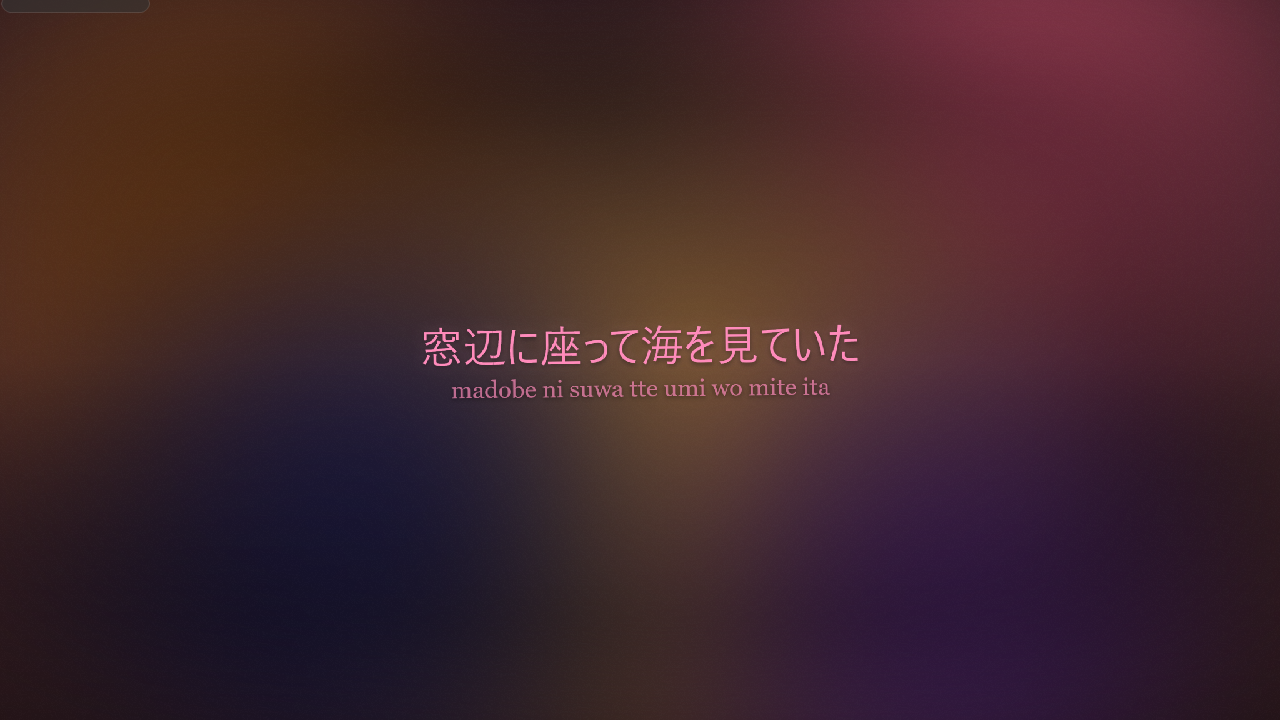
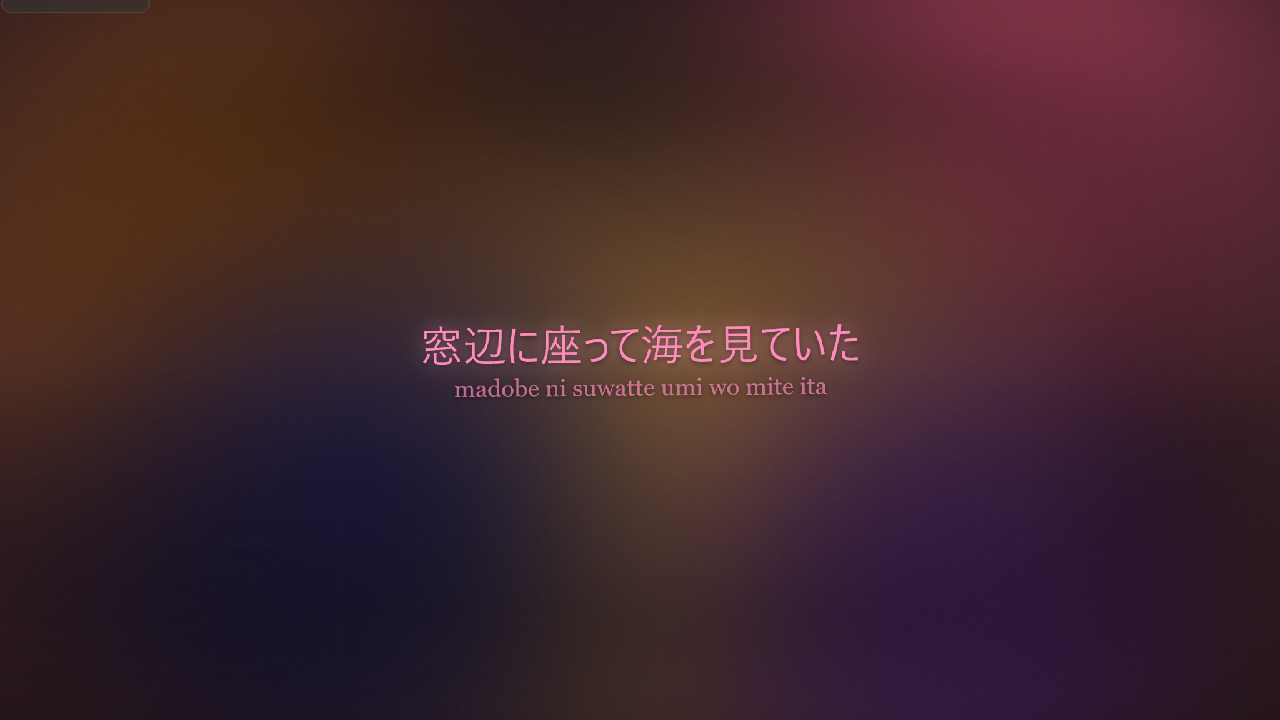
Time the demo's Japanese verbs as whole words; note the flaky lyric-core test
The demo's 歩いた, 座って and 見ていた are one timed word each, so their readings read
as words. The Japanese preview is re-taken and a loop back to the first song (palette
from the cache) is added. M3.md and VALIDATION.md record the flaky
LrclibLosesItsLeadWhenTwoOtherSourcesAgreeAgainstItsTiming test: LRCLIB keeps its lead
when the agreeing sources answer after it (confirmed by delaying them); nothing under
Lunalyr.Core changed on this branch. The backgroundMode doc comment lists colourOnly.

Changed region(s): [[0.3125, 0.4583, 0.6562, 0.55]]

diff --git a/windows/src/Lunalyr.Shell/Demo/DemoSongs.cs b/windows/src/Lunalyr.Shell/Demo/DemoSongs.cs
@@ -60,11 +60,11 @@ public static class DemoSongs
     private static DemoSong Japanese()
     {
         static Sung W(string text, double start, double end) => new(text, start, end, Space: false);
-        Sung[] first = [W("夕焼け", 1.5, 2.1), W("の", 2.1, 2.3), W("帰り道", 2.4, 3.0), W("を", 3.0, 3.2), W("歩い", 3.3, 3.9), W("た", 3.9, 4.5)];
+        Sung[] first = [W("夕焼け", 1.5, 2.1), W("の", 2.1, 2.3), W("帰り道", 2.4, 3.0), W("を", 3.0, 3.2), W("歩いた", 3.3, 4.5)];
         Sung[] second =
         [
-            W("窓辺", 4.9, 5.4), W("に", 5.4, 5.6), W("座っ", 5.7, 6.2), W("て", 6.2, 6.4), W("海", 6.5, 6.9), W("を", 6.9, 7.1),
-            W("見て", 7.2, 7.7), W("いた", 7.7, 8.5),
+            W("窓辺", 4.9, 5.4), W("に", 5.4, 5.6), W("座って", 5.7, 6.4), W("海", 6.5, 6.9), W("を", 6.9, 7.1),
+            W("見ていた", 7.2, 8.5),
         ];
         Sung[] third = [W("星空", 9.2, 9.9), W("の", 9.9, 10.1), W("下", 10.2, 10.7), W("で", 10.7, 10.9), W("君", 11.0, 11.5), W("を", 11.5, 11.7), W("待つ", 11.8, 12.9)];
         Sung[] fourth = [W("明日", 13.5, 14.1), W("も", 14.1, 14.3), W("また", 14.4, 14.9), W("会える", 15.0, 15.7), W("よう", 15.7, 16.4), W("に", 16.4, 17.0)];

diff --git a/windows/src/Lunalyr.Shell/Settings/AppSettings.cs b/windows/src/Lunalyr.Shell/Settings/AppSettings.cs
@@ -60,9 +60,10 @@ public sealed record AppSettings
     // ---- Wallpaper ----
 
     /// <summary>
-    /// The background: "gradient" (animated album colours; Windows' default and, so far, only one), then the Mac's
-    /// <c>backgroundMode</c> values as they are ported ("pattern", "shader", "visualizer", "colourOnly", "desktop",
-    /// "custom", "musicVideo").
+    /// The background: "gradient" (the animated album colour field; Windows' default) or the Mac's "colourOnly" (the
+    /// straight album gradient), then the Mac's other <c>backgroundMode</c> values as they are ported ("pattern",
+    /// "shader", "visualizer", "desktop", "custom", "musicVideo"). EngineWallpaperRenderer.BackgroundLayerFor maps a
+    /// value to its layer.
     /// </summary>
     public string BackgroundMode { get; init; } = "gradient";
 

diff --git a/windows/docs/milestones/M3.md b/windows/docs/milestones/M3.md
@@ -19,7 +19,8 @@
   and a track without a cover gets the Mac's default colours.
 - **A softer text backing.** Over bright, contrasty covers the shade behind the lyrics used to show as a dark
   rectangle with lighter edges. It is now feathered widely: full strength where lyrics are set, with no visible edge
-  or corner ([before/after: `docs/previews/gradient/gradient-contrast-*.png`](../previews/gradient/)).
+  or corner (re-rendered: [`docs/previews/gradient/gradient-contrast-*.png`](../previews/gradient/); the earlier
+  render with the rectangle is in git history, before commit 6ef9467).
 - **Readings** of Japanese lyrics come from the bundled dictionary and show below the lines.
 - **`--demo`**: a silent built-in player with two invented songs, an English one and a Japanese one with readings.
   They have word-timed lyrics and covers painted in code, and loop in real time. Nothing plays, nothing is looked up
@@ -40,6 +41,7 @@
 | Spoken, wrapping line | [spoken-gradient-english-wrapping.png](../previews/m3/spoken-gradient-english-wrapping.png) |
 | Colour background, Editorial | [editorial-colour-english-backing-vocals.png](../previews/m3/editorial-colour-english-backing-vocals.png), [editorial-colour-japanese-readings.png](../previews/m3/editorial-colour-japanese-readings.png) |
 | Colour background, Spoken, Japanese | [spoken-colour-japanese-reading.png](../previews/m3/spoken-colour-japanese-reading.png) |
+| Back to the first song after a loop (its colours from the cache) | [editorial-gradient-loop-back-to-the-first-song.png](../previews/m3/editorial-gradient-loop-back-to-the-first-song.png) |
 
 The peeks were taken with `pauseWhenCovered` switched off in a temporary settings file, because open windows
 cover this desktop and the engine pauses (as it should) while they do. The small grey bar at the top left belongs
@@ -69,7 +71,8 @@ cap is 60 fps, so on this 60 Hz desktop "60 fps" and "default" are the same run;
 
 ## Tests
 
-1078 tests (1077 pass, 1 skipped opt-in), run three times. New in this milestone's finish:
+1078 tests (1077 pass, 1 skipped opt-in). See "A flaky lyric-core test" below for the tally of full runs. New in
+this milestone's finish:
 - controller colours: `AppControllerArtworkTests` (8: real decode of a painted cover, no cover, unreadable cover,
   a late cover, cache and cancellation, late answers dropped, a relook keeping colours, the player going away);
 - the demo: `DemoTests` (13);
@@ -77,6 +80,20 @@ cap is 60 fps, so on this 60 Hz desktop "60 fps" and "default" are the same run;
 - the feathered backing: `FeatheredBackingTests`. The drawn-backing test (adapted from the Mac's
   `testTheDrawnBackingFollowsTheShapeAndAManualAmountKeepsItsEllipse`) now checks the new shape; the Mac's shape
   functions and their ported tests are unchanged.
+
+### A flaky lyric-core test (not changed by this milestone; a product question)
+
+`LyricServiceEndToEndTests.LrclibLosesItsLeadWhenTwoOtherSourcesAgreeAgainstItsTiming` sometimes fails. LRCLIB
+wins instead of Lyrics+. This branch changes nothing under `src/Lunalyr.Core` or `tests/Lunalyr.Core.Tests`.
+- **Cause, confirmed.** In a throwaway copy of the test, Lyrics+ and NetEase answered 300 ms after LRCLIB, and the
+  test failed every time.
+- **Mechanism, from reading the code.** LRCLIB's word timing is shown as soon as no pending source could outrank it
+  on its own (`LyricRanking.IsSettled` / `CouldBeat`). Agreement against its timing only exists once the others
+  have answered, and the later pairwise upgrade check (`LyricPublication.IsUpgrade`) doesn't bring it back in.
+- **So arrival order decides** whether "LRCLIB loses its lead when two other sources agree" holds. That is one of
+  the rules in AGENT-RULES, so it's a question for the lyric core, not test noise.
+- **How often.** Alone, the Core assembly failed 1 time in 15 and the end-to-end class 0 times in 15. In full
+  solution runs it failed 2 times in 7.
 
 ## What's left
 
@@ -89,6 +106,10 @@ cap is 60 fps, so on this 60 Hz desktop "60 fps" and "default" are the same run;
   sweep, Music reactive, Custom gradient, Static white) and the highlight tiles are not wired yet.
 - **Backing vocals tagged `x-bg` in Apple-style TTML** don't seem to reach the compositions (no `ttm:role` handling
   in the TTML parser); parenthesised ones do. This should be checked against the Mac's parser.
+- **A cover is cached per track once read.** If a player hands over the previous song's cover for a moment, those
+  colours would stay for that track; the owner's live check will show whether players do this.
+- **Japanese readings split some verbs**: 見ていた reads "mite ita" even when it is one timed word. That comes from
+  the readings service, not the wallpaper.
 - Slow frames (above); Extend mode, mixed DPI, 280 Hz and battery checks (below).
 
 ## What the owner should try with real music

diff --git a/windows/VALIDATION.md b/windows/VALIDATION.md
@@ -55,6 +55,9 @@ analyzer, which returns nothing without the Japanese language pack; 1 is an opt-
 ## Milestone 3: wallpaper with Editorial, Spoken and the gradient
 
 1078 tests (1077 pass, 1 skipped: the opt-in real-Lyricsfile test). Report: [docs/milestones/M3.md](docs/milestones/M3.md).
+One lyric-core test, untouched by milestone 3, is flaky:
+`LrclibLosesItsLeadWhenTwoOtherSourcesAgreeAgainstItsTiming`. When the agreeing sources answer after LRCLIB, LRCLIB
+keeps its lead (confirmed by delaying them). It failed in 2 of 7 full runs; see M3.md, "A flaky lyric-core test".
 
 | Item | Status | Evidence |
 |---|---|---|
